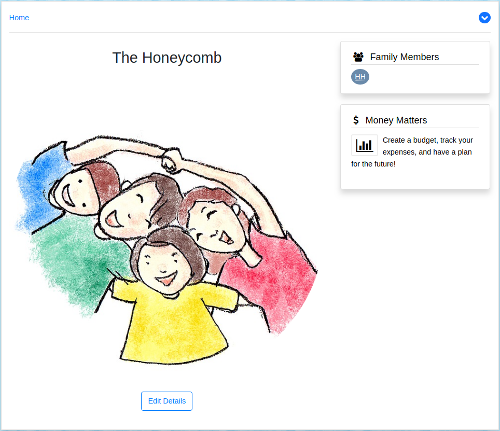
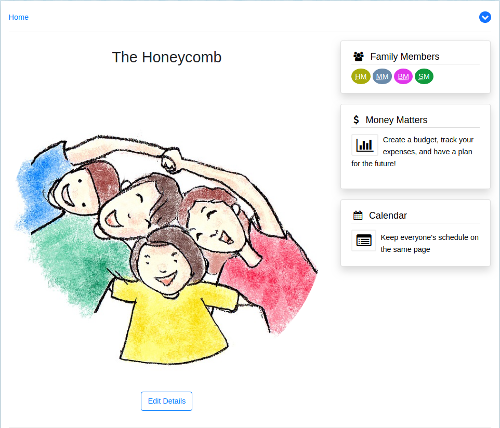
Add calendar content to family home screen help

diff --git a/resources/lang/en/help/family.php b/resources/lang/en/help/family.php
@@ -6,6 +6,10 @@ $__navigation_url = route('help', 'navigation');
 
 $__family_homescreen_image = asset("img/help/family/home_screen.png");
 
+$__current_calendar_image = asset("img/help/family/current_calendar.png");
+
+$__calendar_url = route('help', 'calendar');
+
 $__current_cfp_image = asset("img/help/family/current_cfp.png");
 
 return [
@@ -31,6 +35,15 @@ EOT
     'homescreen-details' => <<<EOT
 <p>The Family Home Screen acts as the hub for all activity within {$__app_name}. From here, you're able to access the different tools available.</p>
 <p>You can easily return to this screen at any time by selecting the "Home" option either from the main navigation bar or from the family navigation bar. See the <a href="{$__navigation_url}" class="help-link">Navigation</a> page for more details.</p>
+EOT
+    ,
+    'current-calendar' => "Today's Calendar Events",
+    'current-calendar-details' => <<<EOT
+<div class="image-container">
+    <img src="{$__current_calendar_image}" alt="A screenshot of the current day's events, including the husband's birthday, the son's dentist appointment, and dinner reservations for this evening">
+</div>
+<p>On the Family Home Screen, you'll have easy access to view all of your family's activity. Birthdays, appointments, and reservations are all readily visible so you'll never miss the important things. You can easily edit these events, and create new ones, from here.</p>
+<p>Find out more about the <a href="{$__calendar_url}" class="help-link">Calendar feature</a>.</p>
 EOT
     ,
     'current-cfp' => "Your Family's Current Cash Flow Plan",

diff --git a/resources/views/help/section/family.blade.php b/resources/views/help/section/family.blade.php
@@ -10,6 +10,10 @@
 
 {!! __('help/family.homescreen-details') !!}
 
+<h3>{{ __('help/family.current-calendar') }}</h3>
+
+{!! __('help/family.current-calendar-details') !!}
+
 <h3>{{ __('help/family.current-cfp') }}</h3>
 
 {!! __('help/family.current-cfp-details') !!}
